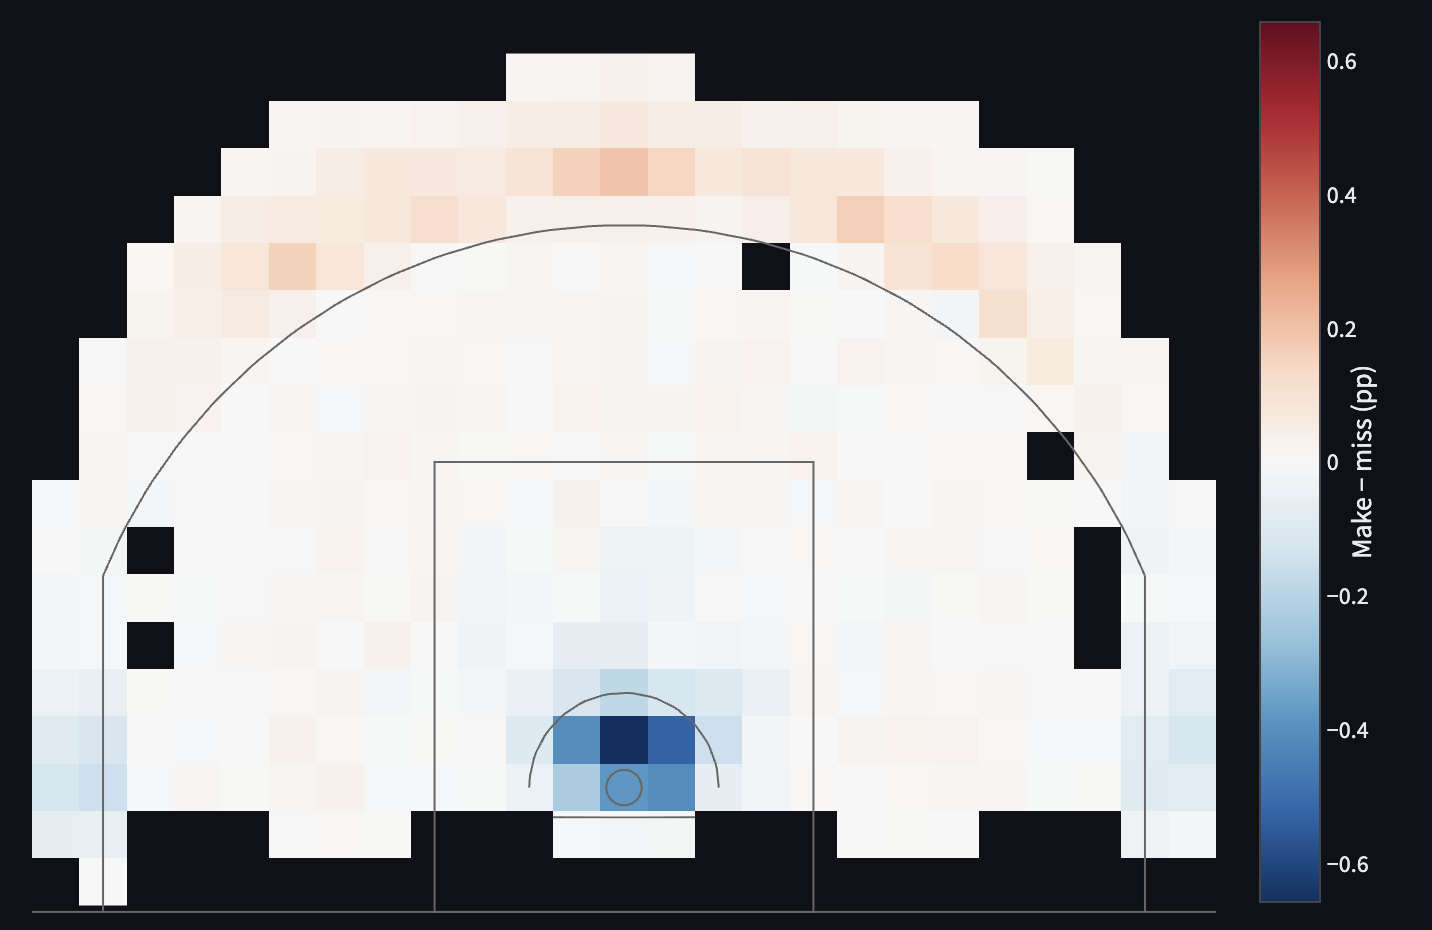
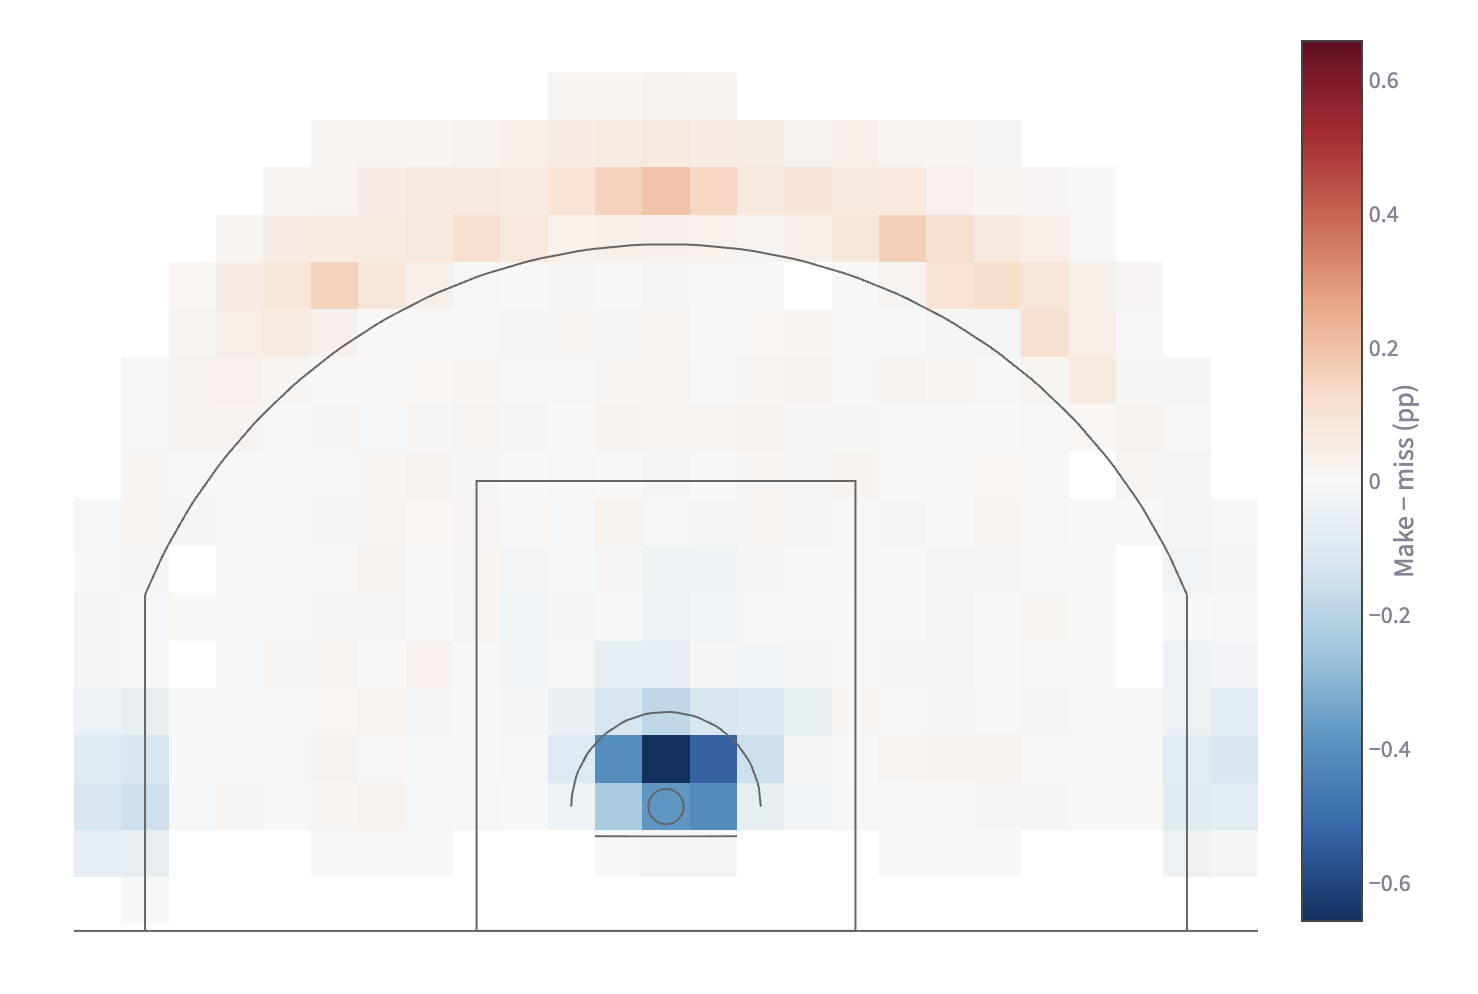
README: what makes this rigorous; light-theme shot-map screenshot

diff --git a/README.md b/README.md
@@ -17,8 +17,20 @@ the sequence bias are accounted for, a player is not more likely to make his nex
 
 *Shot map from the [live dashboard](https://nba-shot-selection.streamlit.app/) (all players, all
 seasons). Each 2 × 2 ft square shows the share of next shots there after a make minus the share after a
-miss, in percentage points: red means more often after a make, blue more often after a miss. Dark
-squares had fewer than 50 shots on a side.*
+miss, in percentage points: red means more often after a make, blue more often after a miss. Gaps
+are squares with fewer than 50 shots on a side.*
+
+## What makes this rigorous
+
+- **Predictions written before the data:** hypotheses committed on 14 October 2026, before any data
+  was downloaded ([docs/hypotheses.md](docs/hypotheses.md)).
+- **Every choice on record:** 59 dated decisions, each with its reason ([docs/decisions.md](docs/decisions.md)).
+- **Built on one half, tested on the other:** game data was split at random. The difficulty model and
+  playstyle groups come from one half; every test runs on the other.
+- **The classic streak trap corrected:** a shuffle test removes the bias that misled early hot-hand
+  studies (Miller and Sanjurjo, 2018).
+- **Tried to break it:** 24 robustness checks, a placebo, and a second statistical model.
+- **Fully reproducible:** a fresh clone reran everything from raw data and matched every result exactly.
 
 ## Question
 
